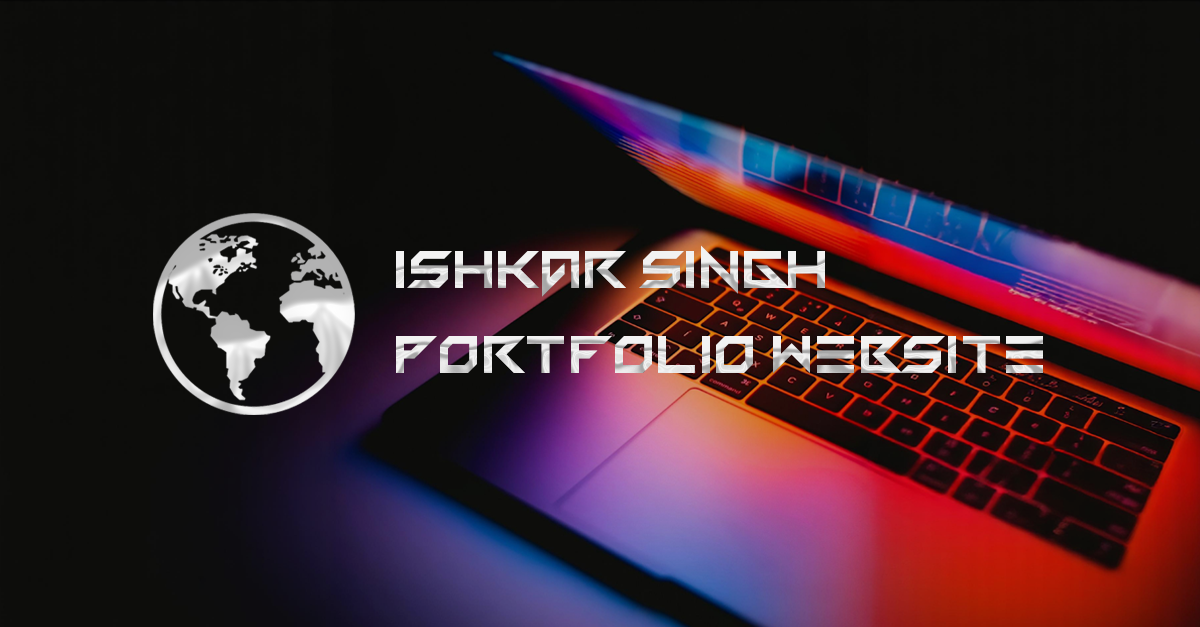
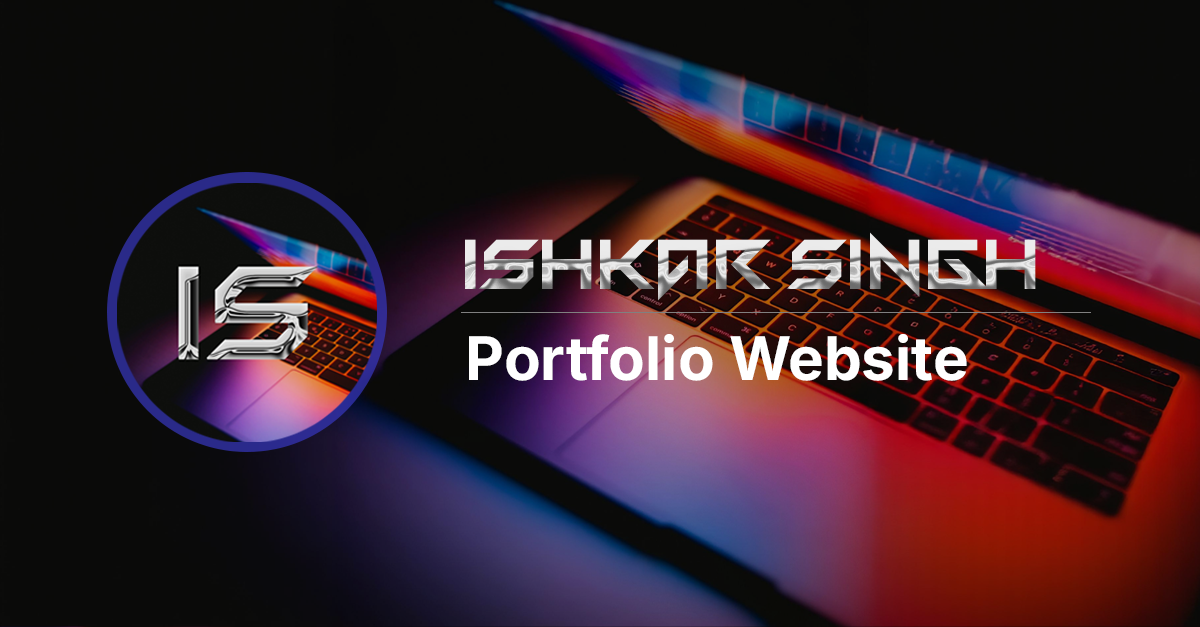
DP, Cert, URL Image Update

diff --git a/portfolio-site/index.html b/portfolio-site/index.html
@@ -2033,7 +2033,7 @@
                 class="w-full flex flex-col md:flex-row items-center md:items-start justify-center gap-10 md:gap-12 lg:gap-20 mb-12 sm:mb-16">
                 <div
                     class="animate-slide-slow w-40 h-40 sm:w-52 sm:h-52 md:w-60 md:h-60 lg:w-64 lg:h-64 flex-shrink-0 rounded-full overflow-hidden border-4 border-white/10 shadow-2xl transition-all duration-500 hover:border-primary/50 relative group md:mt-2">
-                    <img src="./assets/images/ISprofilePicture.webp" alt="Ishkar Singh"
+                    <img src="./assets/images/profilePictureV2.webp" alt="Ishkar Singh"
                         class="w-full h-full object-cover transition-transform duration-500 group-hover:scale-105" />
                 </div>
 
@@ -2601,6 +2601,22 @@
                                             </p>
                                             <p class="text-xs text-slate-500 mt-0.5">
                                                 Issued Dec 2025
+                                            </p>
+                                        </div>
+                                    </a>
+
+                                    <a href="https://verify.skilljar.com/c/ggqpyn229ock" target="_blank"
+                                        rel="noopener noreferrer"
+                                        class="glass-card flex items-center gap-4 p-3.5 rounded-xl transition-all duration-300 group/item">
+                                        <img src="assets/images/anthropic.png" alt="Anthropic Logo"
+                                            class="w-9 h-9 rounded-lg object-contain bg-white/5 p-1" />
+                                        <div>
+                                            <p
+                                                class="text-sm font-semibold text-white group-hover/item:text-white transition-colors">
+                                                Anthropic: Claude 101
+                                            </p>
+                                            <p class="text-xs text-slate-500 mt-0.5">
+                                                Issued Aug 2026
                                             </p>
                                         </div>
                                     </a>
